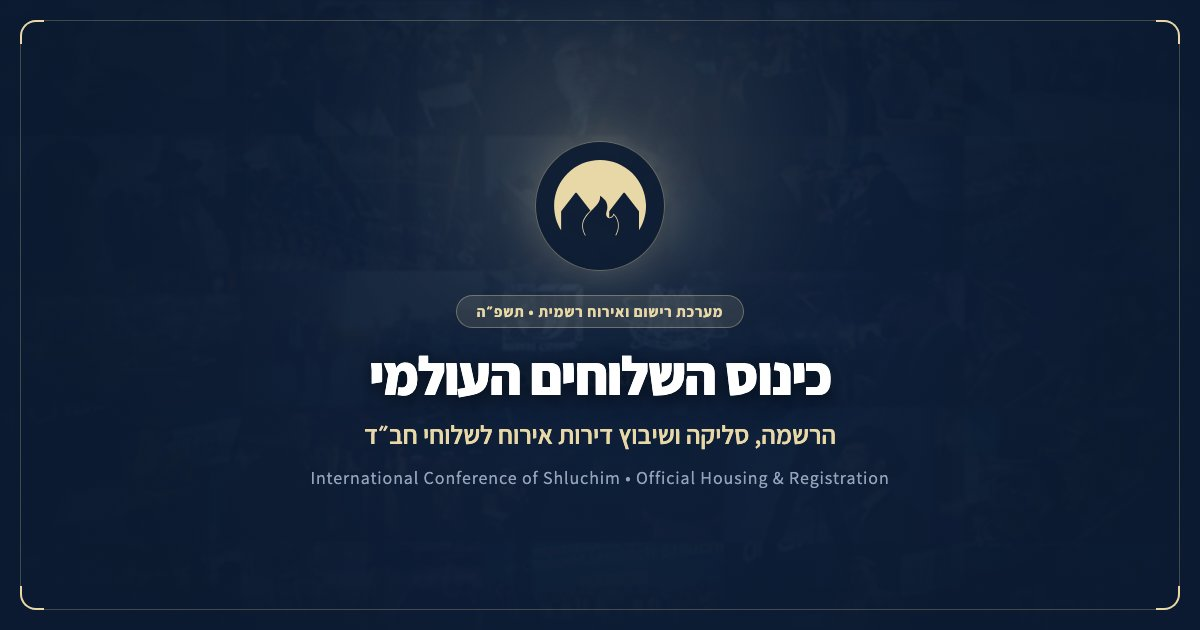
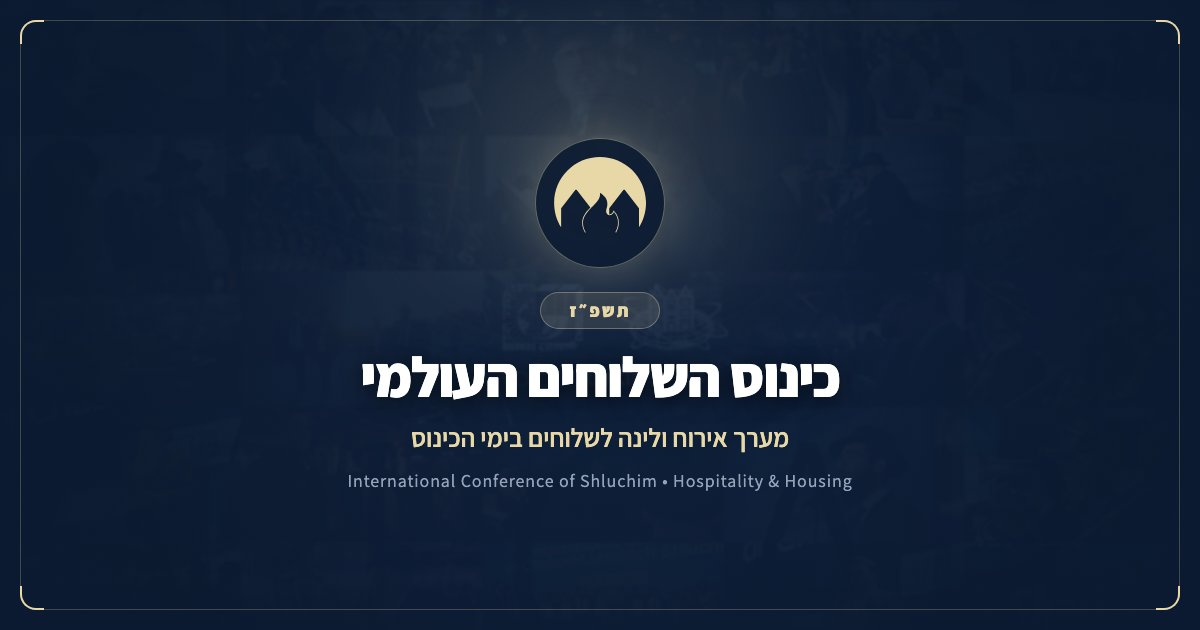
fix(seo): update preview text to 'מערך אירוח ולינה לשלוחים בימי הכינוס' and year to 'תשפ״ז'

diff --git a/src/app/layout.tsx b/src/app/layout.tsx
@@ -22,10 +22,10 @@ const playfair = Playfair_Display({
 export const metadata: Metadata = {
   metadataBase: new URL("https://kinusbed.vercel.app"),
   title: {
-    default: "כינוס השלוחים העולמי - מערכת רישום ואירוח | International Conference of Shluchim",
+    default: "כינוס השלוחים העולמי | International Conference of Shluchim",
     template: "%s | כינוס השלוחים העולמי",
   },
-  description: "הרשמה, סליקה ושיבוץ לינה לשלוחי חב\"ד בכינוס השלוחים העולמי תשפ\"ה - Official Kinus Housing & Registration",
+  description: "מערך אירוח ולינה לשלוחים בימי הכינוס - כינוס השלוחים העולמי תשפ״ז",
   manifest: "/manifest.webmanifest",
   appleWebApp: {
     capable: true,
@@ -36,8 +36,8 @@ export const metadata: Metadata = {
     canonical: "https://kinusbed.vercel.app",
   },
   openGraph: {
-    title: "כינוס השלוחים העולמי - מערכת רישום ואירוח",
-    description: "הרשמה, סליקה ושיבוץ לינה לשלוחי חב\"ד בכינוס השלוחים העולמי תשפ\"ה • Official Kinus Housing & Registration",
+    title: "כינוס השלוחים העולמי",
+    description: "מערך אירוח ולינה לשלוחים בימי הכינוס - כינוס השלוחים העולמי תשפ״ז",
     url: "https://kinusbed.vercel.app",
     siteName: "כינוס השלוחים העולמי",
     locale: "he_IL",
@@ -47,7 +47,7 @@ export const metadata: Metadata = {
         url: "/og-image.jpg",
         width: 1200,
         height: 630,
-        alt: "כינוס השלוחים העולמי - מערכת רישום ואירוח",
+        alt: "כינוס השלוחים העולמי - מערך אירוח ולינה לשלוחים בימי הכינוס",
         type: "image/jpeg",
       },
       {
@@ -61,14 +61,20 @@ export const metadata: Metadata = {
   },
   twitter: {
     card: "summary_large_image",
-    title: "כינוס השלוחים העולמי - מערכת רישום ואירוח",
-    description: "הרשמה, סליקה ושיבוץ לינה לשלוחי חב\"ד בכינוס השלוחים העולמי תשפ\"ה",
+    title: "כינוס השלוחים העולמי",
+    description: "מערך אירוח ולינה לשלוחים בימי הכינוס - כינוס השלוחים העולמי תשפ״ז",
     images: ["/og-image.jpg"],
   },
   icons: {
-    icon: "/assets/kinus-emblem.svg",
-    shortcut: "/assets/kinus-emblem.svg",
-    apple: "/assets/kinus-emblem.svg",
+    icon: [
+      { url: "/favicon.ico", sizes: "any" },
+      { url: "/icons/icon-192x192.png", sizes: "192x192", type: "image/png" },
+      { url: "/assets/kinus-emblem.svg", type: "image/svg+xml" },
+    ],
+    apple: [
+      { url: "/icons/apple-touch-icon.png", sizes: "180x180", type: "image/png" },
+    ],
+    shortcut: "/favicon.ico",
   },
   other: {
     "image_src": "https://kinusbed.vercel.app/og-image.jpg",
